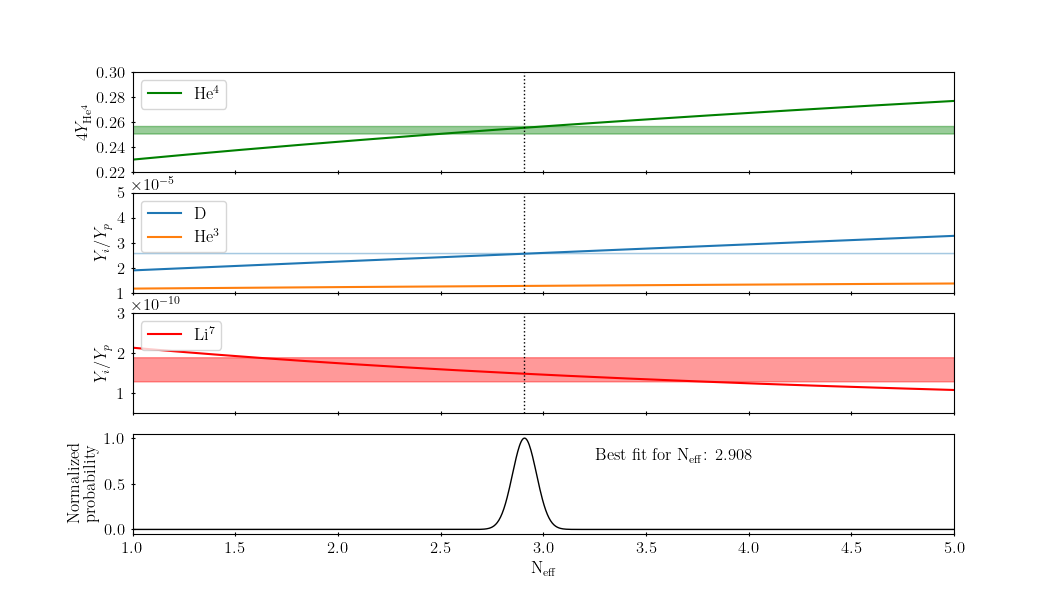
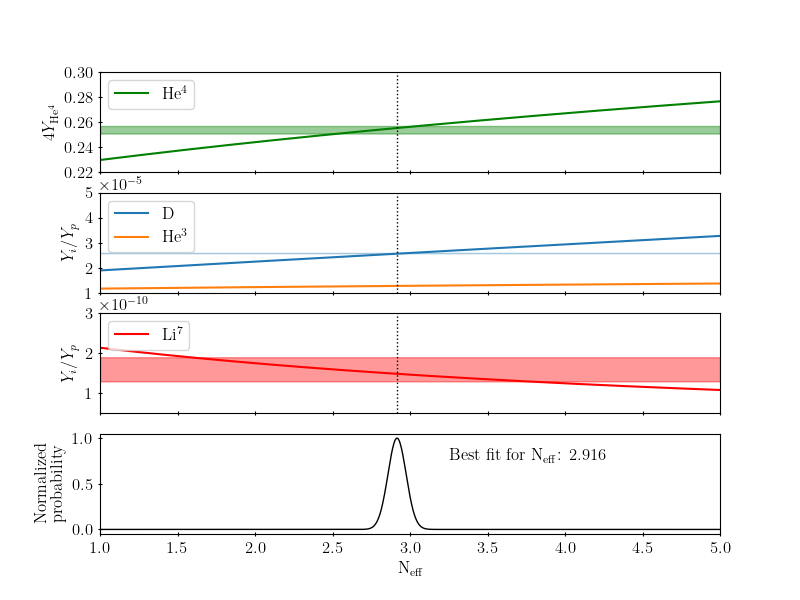
Completed

diff --git a/project-2/functions.py b/project-2/functions.py
@@ -5,7 +5,9 @@ from astropy import units
 from scipy.integrate import solve_ivp, simpson
 
 def t(T):
-
+	'''
+	Calculate the age of the Universe at the temperature T.
+	'''
 	Neff = 3. 
 	O_r0 = 8 * pi**3 * G / (45 * H0**2) * (k * T0)**4 / (hbar**3 * c**5) * (1 + Neff * 7/8 * (4/11)**(4/3))
 
@@ -41,6 +43,7 @@ def dYn_dYp(lnT, variables):
 	I_n_p = simpson(I1, x)
 	I_p_n = simpson(I2, x)
 
+	# Rates for n <--> p 
 	gamma_n_p = 1/tau * I_n_p
 	gamma_p_n = 1/tau * I_p_n
 
@@ -52,7 +55,10 @@ def dYn_dYp(lnT, variables):
 	return diffs
 
 def dYn_dYp_dYD(lnT, variables):
-
+	'''
+	Integrate function to calculate the
+	fractional abundances of n, p, and D.
+	'''
 	Yn, Yp, YD = variables
 
 	T = np.exp(lnT)
@@ -248,7 +254,10 @@ def strong_21(T_9, rho_b):
 
 
 def element_abundance(lnT, variables, Omega_b0=None, Omega_r0=None):
-
+	'''
+	Integration function to calculate the element
+	abundance for n, p, D, T, He3, He4, Li7, and Be7. 
+	'''
 	Yn, Yp, YD, YT, YHe3, YHe4, YLi7, YBe7 = variables
 
 	T = np.exp(lnT)
@@ -283,7 +292,7 @@ def element_abundance(lnT, variables, Omega_b0=None, Omega_r0=None):
 	func = lambda x, q: (x + q)**2 * (x**2 - 1)**(1/2) * x / ((1 + np.exp(x * Z)) * (1 + np.exp(-(x + q) * Z_nu))) \
 	                  + (x - q)**2 * (x**2 - 1)**(1/2) * x / ((1 + np.exp(-x * Z)) * (1 + np.exp((x - q) * Z_nu)))
 
-	x = np.linspace(1, 100, 1001)
+	x = np.linspace(1, 100, 3501)
 	I1 = func(x, q)
 	I2 = func(x, -q)
 
@@ -467,8 +476,7 @@ T0 = 2.725														# CMB temperature, today in K
 H0 = (100 * h * units.km / (units.s * units.Mpc)).cgs.value 	# Hubble constant, today in s^-1
 tau = 1700.														# Free neutron decay time [s]
 q = 2.53														# (m_n - m_p) / m_e
-
-rho_c0 = 3 * H0**2 / (8 * pi * G)
+rho_c0 = 3 * H0**2 / (8 * pi * G)								# Critical density today 
 
 if __name__ == '__main__':
 

diff --git a/project-2/plot_best_params.py b/project-2/plot_best_params.py
@@ -6,7 +6,7 @@ plt.rcParams.update({
 	'text.usetex': True,
 	'font.family': 'Helvetica',
 	'font.size': 12,
-	'figure.figsize': (10.6, 6),
+	'figure.figsize': (8, 6),
 	'xtick.direction': 'inout',
 	'ytick.direction': 'inout'
 	})
@@ -15,7 +15,6 @@ plt.rcParams.update({
 Finding the best fit for Omega_b0
 '''
 model = np.load('fitting-O_b0-model-20-runs.npy')
-model[1, :] *= 4
 YHe3 = np.load('fitting-O_b0-YHe3-20-runs.npy')
 
 YDYp, YHe4, YLi7Yp = model
@@ -61,7 +60,7 @@ chi_sq = np.sum((model.T - obser)**2 / error**2, axis=-1)
 
 best_O_b0 = O_b0[np.where(chi_sq == np.min(chi_sq))[0][0]]
 
-print(f'Best fit for Omega_b0: {best_O_b0}, with chi2: {np.min(chi_sq):.4f}')
+print(f'\nBest fit for Omega_b0: {best_O_b0}, with chi2: {np.min(chi_sq):.4f}')
 
 prob = 1 / np.sqrt(2 * np.prod(error**2)) * np.exp(- chi_sq)
 
@@ -101,13 +100,15 @@ ax3.set_xlabel(r'$\Omega_{b0}$')
 fig.savefig('figures/best-fit-O_r0.pdf')
 fig.savefig('figures/best-fit-O_r0.png')
 
+plt.show()
+# exit()
+
 '''
 Finding the best fit for Neff. Note that in order to find the best fit for both 
 Omega_b0 and Neff, we first computed the above fit for Omega_b0, and then used 
 that value in the program fitting_Neffpy. 
 '''
 model = np.load('fitting-Neff-model-20-runs.npy')
-model[1, :] *= 4
 YHe3 = np.load('fitting-Neff-YHe3-20-runs.npy')
 
 YDYp, YHe4, YLi7Yp = model
@@ -138,7 +139,7 @@ chi_sq = np.sum((model.T - obser)**2 / error**2, axis=-1)
 
 best_Neff = Neff[np.where(chi_sq == np.min(chi_sq))[0][0]]
 
-print(f'Best fit for N_eff: {best_Neff:.4f}, with chi2: {np.min(chi_sq):.4f}')
+print(f'Best fit for N_eff: {best_Neff:.4f}, with chi2: {np.min(chi_sq):.4f}\n')
 
 prob = 1 / np.sqrt(2 * np.prod(error**2)) * np.exp(- chi_sq)
 

diff --git a/project-2/fitting_O_b0.py b/project-2/fitting_O_b0.py
@@ -22,16 +22,18 @@ T0 = 2.725														# CMB temperature, today in K
 H0 = (100 * h * units.km / (units.s * units.Mpc)).cgs.value 	# Hubble constant, today in s^-1
 tau = 1700.														# Free neutron decay time [s]
 q = 2.53														# (m_n - m_p) / m_e
-rho_c0 = 3 * H0**2 / (8 * pi * G)
+rho_c0 = 3 * H0**2 / (8 * pi * G)								# Critical density today 
 
+# Initial and final temperature
 T_i = 100e9
 T_f = .01e9
 T_range = [np.log(T_i), np.log(T_f)]
 
+# Initial abundances of neutrons and protons 
 Yn_i = 1 / (1 + np.exp((m_n - m_p) * c**2 / (k * T_i)))
 Yp_i = 1 - Yn_i
 
-initial_abundance = [Yn_i, Yp_i, 0, 0, 0, 0, 0, 0]
+initial_abundance = [Yn_i, Yp_i, 0, 0, 0, 0, 0, 0]		# All initial abundances other than p and n are zero
 
 n_runs = 20
 
@@ -41,6 +43,8 @@ Yp = np.zeros(n_runs)
 YLi7 = np.zeros(n_runs)
 YHe3 = np.zeros(n_runs)
 YHe4 = np.zeros(n_runs)
+
+print(f'\nComputing models for {n_runs} O_b0 values.\n')
 
 start_outer = perf_counter()
 
@@ -61,11 +65,12 @@ end_outer = perf_counter()
 
 time_outer = end_outer - start_outer 
 
-print(f'\nComputed models for {n_runs} O_b0 values in: {time_outer//60:2.0f} min {time_outer%60:.0f} s')
+print(f'\nComputed models for {n_runs} O_b0 values in: {time_outer//60:2.0f} min {time_outer%60:.0f} s\n')
 
 YDYp = YD / Yp 
 YLi7Yp = YLi7 / Yp
 YHe3 /= Yp
+YHe4 *= 4
 
 model = np.array([YDYp, YHe4, YLi7Yp])
 np.save(f'fitting-O_b0-model-{n_runs}-runs', model)

diff --git a/project-2/fitting_Neff.py b/project-2/fitting_Neff.py
@@ -22,16 +22,18 @@ T0 = 2.725														# CMB temperature, today in K
 H0 = (100 * h * units.km / (units.s * units.Mpc)).cgs.value 	# Hubble constant, today in s^-1
 tau = 1700.														# Free neutron decay time [s]
 q = 2.53														# (m_n - m_p) / m_e
-rho_c0 = 3 * H0**2 / (8 * pi * G)
+rho_c0 = 3 * H0**2 / (8 * pi * G)								# Critical density today
 
+# Initial and final temperatures 
 T_i = 100e9
 T_f = .01e9
 T_range = [np.log(T_i), np.log(T_f)]
 
+# Initial abundances of neutrons and protons 
 Yn_i = 1 / (1 + np.exp((m_n - m_p) * c**2 / (k * T_i)))
 Yp_i = 1 - Yn_i
 
-initial_abundance = [Yn_i, Yp_i, 0, 0, 0, 0, 0, 0]
+initial_abundance = [Yn_i, Yp_i, 0, 0, 0, 0, 0, 0]		# All initial abundances other that p and n are zero 
 
 n_runs = 20
 
@@ -46,6 +48,9 @@ Yp = np.zeros(n_runs)
 YLi7 = np.zeros(n_runs)
 YHe3 = np.zeros(n_runs)
 YHe4 = np.zeros(n_runs)
+
+print(f'\nComputing models for {n_runs} Neff values.')
+print(f'Using O_b0 = {O_b0}\n')
 
 start_outer = perf_counter()
 
@@ -67,11 +72,12 @@ end_outer = perf_counter()
 
 time_outer = end_outer - start_outer 
 
-print(f'\nComputed models for {n_runs} Neff values in: {time_outer//60:2.0f} min {time_outer%60:.0f} s')
+print(f'\nComputed models for {n_runs} Neff values in: {time_outer//60:2.0f} min {time_outer%60:.0f} s\n')
 
 YDYp = YD / Yp 
 YLi7Yp = YLi7 / Yp
 YHe3 /= Yp
+YHe4 *= 4
 
 model = np.array([YDYp, YHe4, YLi7Yp])
 

diff --git a/project-2/plot_abundances.py b/project-2/plot_abundances.py
@@ -9,7 +9,7 @@ plt.rcParams.update({
 	'text.usetex': True,
 	'font.family': 'Helvetica',
 	'font.size': 12,
-	'figure.figsize': (8, 6),
+	'figure.figsize': (10.6, 6),
 	'xtick.direction': 'inout',
 	'ytick.direction': 'inout'
 	})
